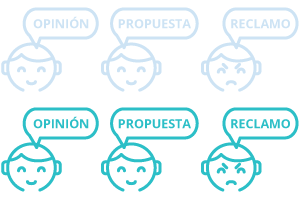
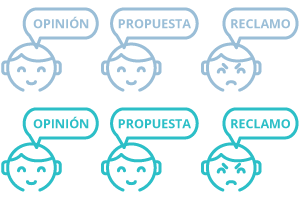
akfbdbkef

diff --git a/css/app.css b/css/app.css
@@ -7688,6 +7688,9 @@ footer {
   -webkit-box-shadow: 0 4px 6px rgba(50, 50, 93, 0.11), 0 1px 3px rgba(0, 0, 0, 0.08);
           box-shadow: 0 4px 6px rgba(50, 50, 93, 0.11), 0 1px 3px rgba(0, 0, 0, 0.08); }
 
+textarea.textarea {
+  min-height: 100px !important; }
+
 .field .label {
   color: #424770; }
 
@@ -7847,7 +7850,7 @@ progress[value]::-webkit-progress-value {
   .selector .option {
     margin: 0 auto;
     padding: 0.4rem;
-    border: 3px solid #c9d9e9;
+    border: 3px solid #a5c0da;
     border-radius: 5px;
     display: inline-block;
     -webkit-transition: all .2s ease;
@@ -7862,23 +7865,23 @@ progress[value]::-webkit-progress-value {
     .selector .option .icon {
       color: #a5c0da; }
     .selector .option.text p {
-      color: #c9d9e9;
-      text-transform: uppercase; }
+      text-transform: uppercase;
+      font-size: 0.8rem; }
     .selector .option.text:hover p {
-      color: #a5c0da; }
+      color: #93b3d3; }
     .selector .option.text.active p {
       color: #16c6cc; }
     .selector .option:hover {
       cursor: pointer;
-      border-color: #a5c0da; }
+      border-color: #93b3d3; }
       .selector .option:hover .icon {
-        color: #a5c0da; }
+        color: #93b3d3; }
     .selector .option.active {
       border-color: #16c6cc;
       background-position-y: -100px !important; }
       .selector .option.active p {
         color: #16c6cc; }
-      .selector .option.active .icon {
+      .selector .option.active .icon span {
         color: #16c6cc; }
 
 .motive > div {
@@ -7905,7 +7908,7 @@ progress[value]::-webkit-progress-value {
 
 .answers > div {
   background: url("./img/problematicas.png");
-  background-size: 880px 160px;
+  background-size: 1040px 160px;
   background-position: 0 0;
   width: 80px;
   height: 80px;
@@ -7928,7 +7931,7 @@ progress[value]::-webkit-progress-value {
 .answers.mayores > div {
   background-position: -240px 0; }
 
-.answers.deportes > div {
+.answers.educacion > div {
   background-position: -320px 0; }
 
 .answers.obras > div {
@@ -7948,6 +7951,12 @@ progress[value]::-webkit-progress-value {
 
 .answers.no > div {
   background-position: -800px 0; }
+
+.answers.serviciospublicos > div {
+  background-position: -880px 0; }
+
+.answers.discriminacion > div {
+  background-position: -960px 0; }
 
 .partidos > div {
   background: url("./img/partidos.png");

diff --git a/src/sass/candidatosui.scss b/src/sass/candidatosui.scss
@@ -206,6 +206,9 @@ footer{
 input, textarea,.textarea, .input{
 
 }
+textarea.textarea{
+	min-height: 100px !important;
+}
 .field{
 	.label{
 		color: $secondarycolor;
@@ -384,7 +387,7 @@ progress[value]::-webkit-progress-value{
 	.option{
 		margin: 0 auto;
 		padding: 0.4rem;
-		border: 3px solid $selectnormal;
+		border: 3px solid darken($selectnormal,10%);
 		border-radius: 5px;
 		display: inline-block;
 		transition: all .2s ease;
@@ -401,12 +404,12 @@ progress[value]::-webkit-progress-value{
 		}
 		&.text{
 			p{
-				color: $selectnormal;
 				text-transform: uppercase;
+				font-size: 0.8rem
 			}
 			&:hover{
 				p{
-					color: darken($selectnormal,10%);
+					color: darken($selectnormal,15%);
 				}
 			}
 			&.active{
@@ -417,9 +420,9 @@ progress[value]::-webkit-progress-value{
 		}
 		&:hover{
 			cursor: pointer;
-			border-color: darken($selectnormal,10%);
+			border-color: darken($selectnormal,15%);
 			.icon{
-				color: darken($selectnormal,10%);
+				color: darken($selectnormal,15%);
 			}
 			
 		}
@@ -429,7 +432,7 @@ progress[value]::-webkit-progress-value{
 			p{
 				color: $maincolor;
 			}
-			.icon{
+			.icon span{
 				color: $maincolor;
 			}
 		}
@@ -458,7 +461,7 @@ progress[value]::-webkit-progress-value{
 .answers{
 	> div{
 		background: url("./img/problematicas.png");
-		background-size: 880px 160px;
+		background-size: 1040px 160px;
 		background-position: 0 0;
 		width: 80px;
 		height: 80px;
@@ -475,7 +478,7 @@ progress[value]::-webkit-progress-value{
 	&.salud > div{ background-position: -80px 0}
 	&.infancia > div{ background-position: -160px 0}
 	&.mayores > div{ background-position: -240px 0}
-	&.deportes > div{ background-position: -320px 0}
+	&.educacion > div{ background-position: -320px 0}
 	&.obras > div{ background-position: -400px 0}
 	&.movilidad > div{ background-position: -480px 0}
 	&.seguridad > div{ background-position: -560px 0}
@@ -483,6 +486,8 @@ progress[value]::-webkit-progress-value{
 	
 	&.si > div{ background-position: -720px 0}
 	&.no > div{ background-position: -800px 0}
+	&.serviciospublicos > div{ background-position: -880px 0}
+	&.discriminacion > div{ background-position: -960px 0}
 }
 .partidos{
 	> div{

diff --git a/views/partials/salud.html b/views/partials/salud.html
@@ -1,0 +1,44 @@
+<div class="is-two-thirds column step2 {{name}} inactive">
+	<div class="field">
+		<div class="selector with-select outter-select only-texts">
+			{% for item in items %}
+			<div>
+				<div class="option text" data-value="{{item}}">
+					<p>{{item}}</p>
+				</div>
+			</div>
+			{% endfor %}
+		</div>
+	</div>
+	<div class="columns">
+		<div class="is-two-thirds column">
+			<div class="field">
+				<div class="control">
+					<label class="label is-small">¿Quién no te está dando la atención, medicamento o autorización? Hospital/EPS</label>
+					<div class="select">
+					  <select name="salud_extra_eps">
+					    <option value="EPS" selected="">EPS</option>
+					    <option value="Hospital">Hospital</option>
+					  </select>
+					</div>
+				</div>
+			</div>
+		</div>
+		<div class="column">
+			<div class="field">
+				<div class="control">
+					<label class="label is-small">Nombre de la EPS u Hospital</label>
+					<input type="text" name="salud_extra_eps_name" class="input">
+				</div>
+			</div>
+		</div>
+	</div>
+	<div class="field">
+		<a class="button is-rounded is-linkcolor is-small backstep is-hidden-mobile">
+		    <span class="icon">
+		      <i class="fas fa-chevron-left "></i>
+		    </span>
+			<span>Atras</span>
+		</a>
+	</div>
+</div>

diff --git a/views/partials/educacion.html b/views/partials/educacion.html
@@ -1,5 +1,18 @@
 <div class="is-two-thirds column step2 {{name}} inactive">
 	<div class="field">
+		<label class="label is-small">Selecciona que clase de problema es</label>
+		<div class="control">
+		  <label class="radio">
+		    <input type="radio" name="answer">
+		    Con Educación Primaria/Secundaria
+		  </label>
+		  <label class="radio">
+		    <input type="radio" name="answer">
+		    Acceso a Educación Superior
+		  </label>
+		</div>
+	</div>
+	<div class="field">
 		<div class="selector with-select outter-select only-texts">
 			{% for item in items %}
 			<div>
@@ -13,7 +26,7 @@
 	<div class="field" id="comment">
 		<div class="control">
 			<label for="">¿Algo especifico que te gustaria comentar?</label>
-			<textarea name="{{name}}_extracomment" rows="2" class="textarea"></textarea>
+			<textarea name="{{name}}_extracomment" class="textarea"></textarea>
 		</div>
 	</div>
 	<div class="field">

diff --git a/views/partials/serviciospublicos.html b/views/partials/serviciospublicos.html
@@ -10,10 +10,27 @@
 			{% endfor %}
 		</div>
 	</div>
+	<div class="field">
+		<label class="label is-small">¿Cuál de estas opciones hace más referencia a tu queja?</label>
+		<div class="control">
+		  <label class="radio">
+		    <input type="radio" name="answer">
+		    Infraestructura
+		  </label>
+		  <label class="radio">
+		    <input type="radio" name="answer">
+		    Prestación del Servicio
+		  </label>
+		  <label class="radio">
+		    <input type="radio" name="answer">
+		    Pirateria
+		  </label>
+		</div>
+	</div>
 	<div class="field" id="comment">
 		<div class="control">
 			<label for="">¿Algo especifico que te gustaria comentar?</label>
-			<textarea name="{{name}}_extracomment" rows="2" class="textarea"></textarea>
+			<textarea name="{{name}}_extracomment" class="textarea"></textarea>
 		</div>
 	</div>
 	<div class="field">

diff --git a/webpack.config.js b/webpack.config.js
@@ -56,6 +56,8 @@ const config = {
         files: [
           './**/*.html',
           '*.html',
+          '*.html.twig',
+          './**/*.html.twig',
           '*.php'
         ],
         host: 'localhost',
